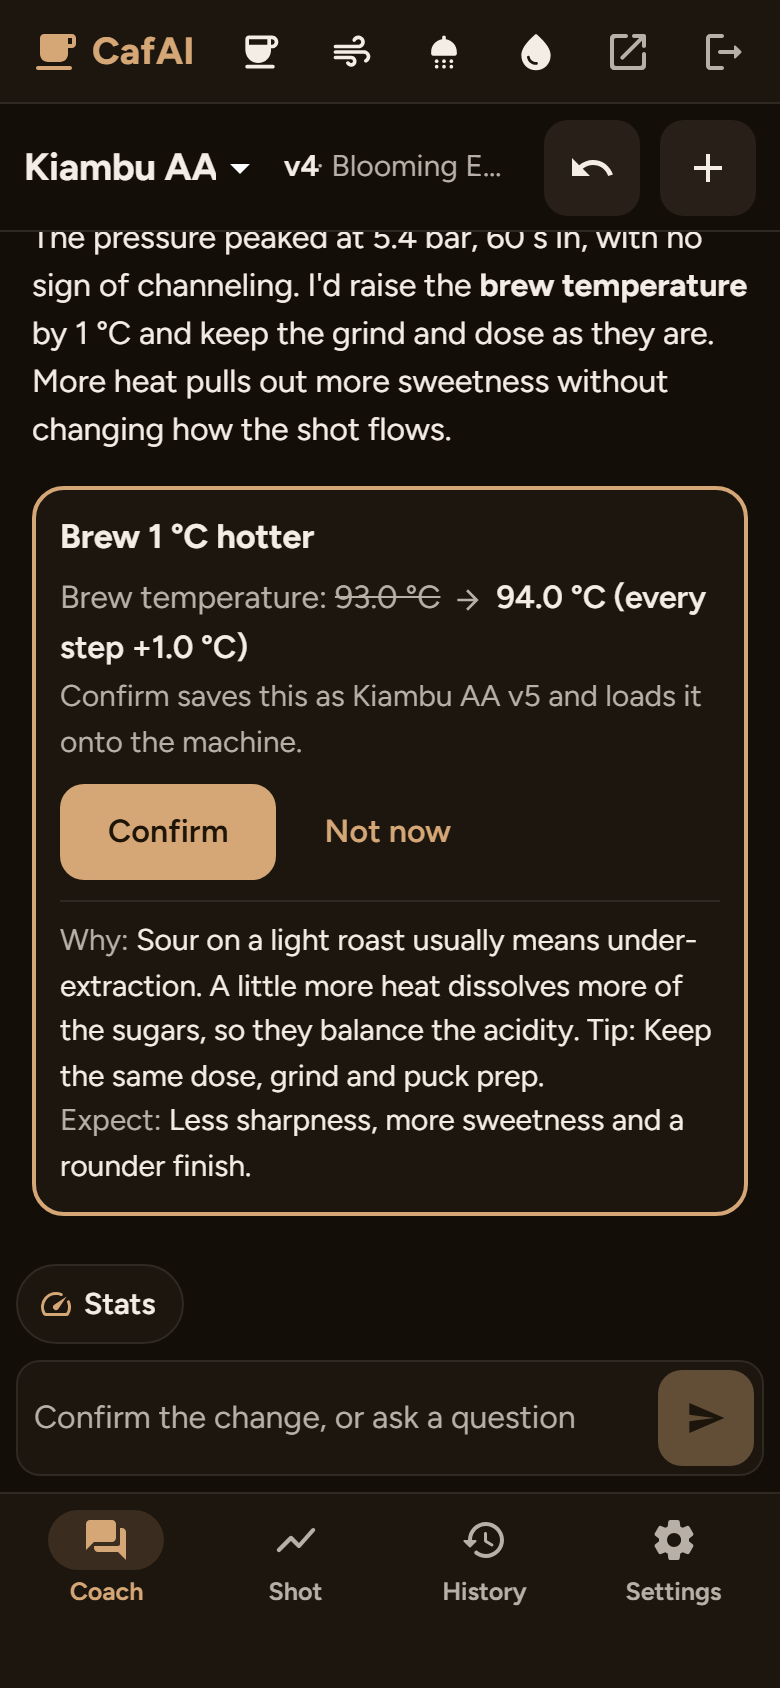
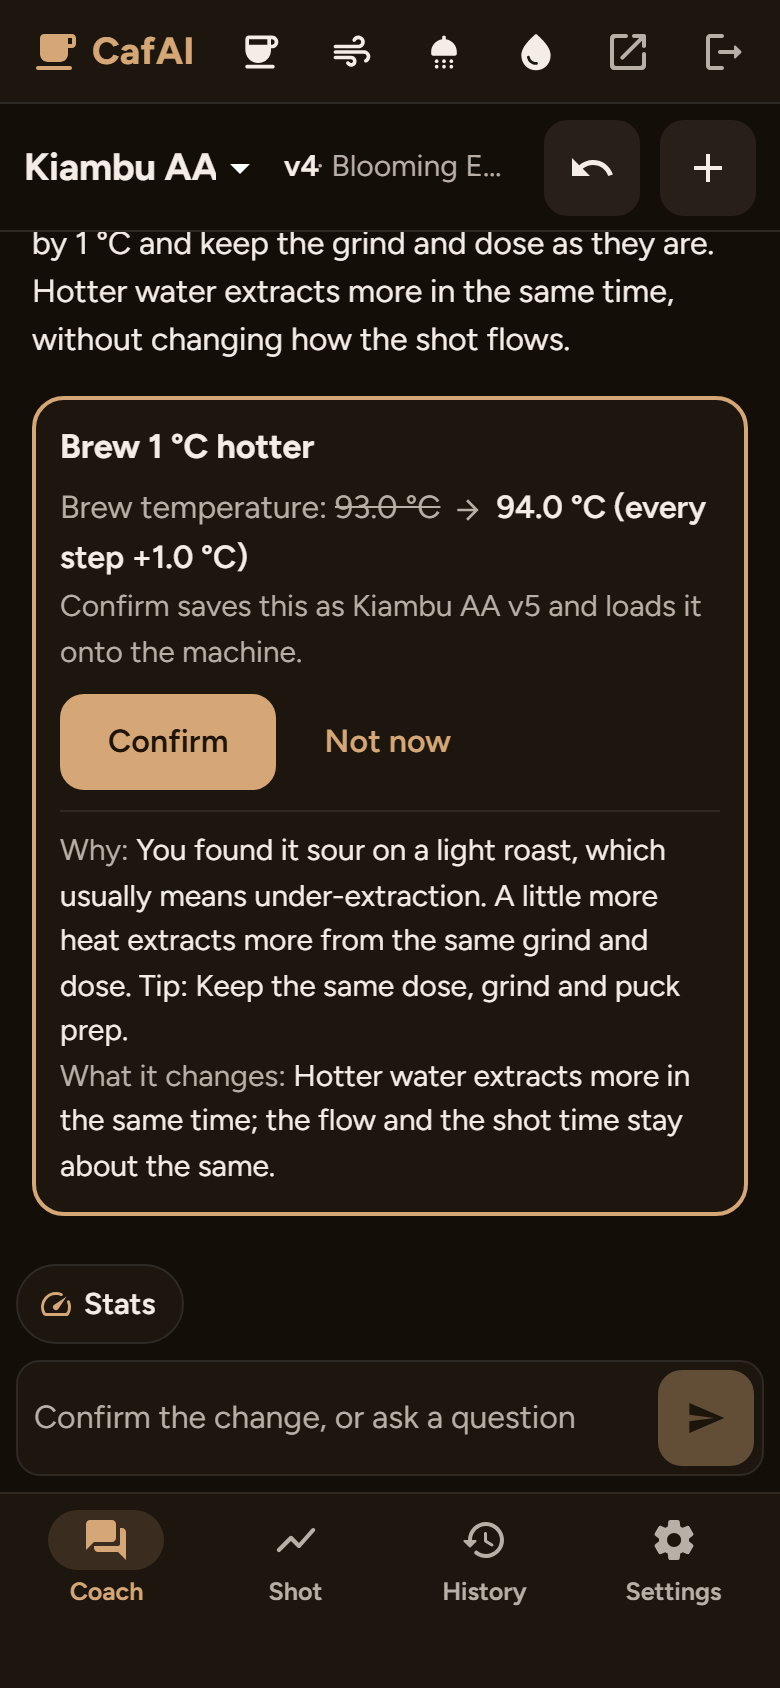
docs: the README's screenshots retaken after D123-D128; MORNING's status after the review's fixes

Changed region(s): [[0.0308, 0.1232, 0.9846, 0.7085], [0.9231, 0.2156, 0.9538, 0.2464]]

diff --git a/MORNING.md b/MORNING.md
@@ -38,15 +38,15 @@ pushed.
 |---|---|
 | Typecheck (`npm run typecheck`) | pass |
 | Lint (`npm run lint`) | pass |
-| Unit tests (`npm test`) | **3014/3014** in 169 files on 2026-10-11 (2026-10-09: 2330 in 144; 2026-10-08: 2275 in 141; 2026-10-06: 2047 in 125; 2026-10-04: 1836 in 115; overnight: 1254 in 91) |
-| Playwright (`npm run e2e`) | **258 passed, 2 skipped** on 2026-10-11, on all five sizes (each phone skips a tablet-only check). Run with 5 workers (`npx playwright test --workers=5`): 8.8 minutes instead of about 25. Six failed in that run and passed alone: five checked a bean button's name the old way (the spec is fixed), one is a timing check that missed under the load (2026-10-09: 188; 2026-10-08: 140; 2026-10-06: 114 on the three tablets) |
+| Unit tests (`npm test`) | **3576 passed, 1 skipped** in 192 files on 2026-10-11, after your list and `main`'s Decaid skill (earlier on 2026-10-11: 3014 in 169; 2026-10-09: 2330 in 144; 2026-10-08: 2275 in 141; 2026-10-06: 2047 in 125; 2026-10-04: 1836 in 115; overnight: 1254 in 91) |
+| Playwright (`npm run e2e`) | **271 passed, 2 skipped** on 2026-10-11 after your list, on all five sizes (each phone skips a tablet-only check), with 5 workers (`npx playwright test --workers=5`) in 7.4 minutes. One more failed in that run, the restore after lost storage on the 962x602 tablet, a timeout while `npm run screenshots` ran beside it; alone it passed on all three tablets. Earlier on 2026-10-11: 258 (2026-10-09: 188; 2026-10-08: 140; 2026-10-06: 114 on the three tablets) |
 | `npm run verify` (all of the above, build and release zip) | every part passes on 2026-10-11, run side by side rather than as the one command (which runs e2e on one worker) |
-| Real Chromium 91 (`npm run build:mock && npm run smoke:chrome91 && npm run smoke:chrome91:loop`) | pass on 2026-10-11: the app loads with no console or page errors, and the whole coach loop runs, now through "Which coffee is it?" (Something else), waiting for the machine to confirm each load; the chat opens with the stats card, Stats brings it back, Espresso in the top bar turns into Stop and the Shot view takes the screen, and the coach comes back with the card |
+| Real Chromium 91 (`npm run build:mock && npm run smoke:chrome91 && npm run smoke:chrome91:loop`) | pass on 2026-10-11, again after your list (the loop now rates the shot Better): the app loads with no console or page errors, and the whole coach loop runs, now through "Which coffee is it?" (Something else), waiting for the machine to confirm each load; the chat opens with the stats card, Stats brings it back, Espresso in the top bar turns into Stop and the Shot view takes the screen, and the coach comes back with the card |
 | Real Decaid (`npm run test:decaid` with writes and a simulated shot) | **36/36** on 2026-10-11 against Decaid 0.8.8+2900 (`aab5f938`, the pin) on your Windows simulator, including the new checks: Connect and a reconnect after a disconnect, Next step during the shot, the time-to-ready channel, DYE2's and Visualizer's data (2026-10-10: 31, then 32) |
 | CafAI served by Decaid (`npm run e2e:real`) | pass on 2026-10-11, the production build from Decaid's port 3000 |
 | Drift watch (`npm run decaid:watch`) | exit 4 on 2026-10-11: every check passes for v0.8.8 and Decaid's `main` (`af4e995`), whose spec changes are additions; files CafAI depends on changed on `main` (camera access for skins, the Visualizer plugin), so on GitHub it would open a `decaid-read` issue (D105) |
 | Live API test (`npm run test:live`) | skipped here (no key on this machine); its dry run against the scripted coach passes |
-| Fresh-eyes verifier | 2026-10-10, Decaid alignment: three reviewers (update safety; engine and storage; UI) found 25 defects, 7 of them important, each verified with a test or Decaid's source; all fixed (`197520d`, brief `docs/briefs/verify-decaid-alignment.md`). 2026-10-08, the UX rework: 2 major, 5 minor and 8 polish; 13 fixed, 1 kept by design, 1 open (below). Chat first: not run yet (its brief is `docs/briefs/verify-chat-first.md`). Earlier rounds: all fixed |
+| Fresh-eyes verifier | 2026-10-11, your list (D123-D128): one reviewer, no critical or high findings; 2 medium (an unknown verdict in a stored chat stopped the coach for that bag; the taste-wording guard missed common promises and read only `expectedEffect`) and 8 low, with nits; all fixed in `8720050` but the screenshot script's fake clock, which only its own pictures meet (they are made deterministic another way). 2026-10-10, Decaid alignment: three reviewers (update safety; engine and storage; UI) found 25 defects, 7 of them important, each verified with a test or Decaid's source; all fixed (`197520d`, brief `docs/briefs/verify-decaid-alignment.md`). 2026-10-08, the UX rework: 2 major, 5 minor and 8 polish; 13 fixed, 1 kept by design, 1 open (below). Chat first: not run yet (its brief is `docs/briefs/verify-chat-first.md`). Earlier rounds: all fixed |
 
 ## New: your list after the alignment (2026-10-11)
 
@@ -89,9 +89,8 @@ review's 25 fixes and this round, is not pushed.
   what CafAI took from others), NOTICE crediting decaid-mcp and Decaid's
   ports, CONTRIBUTING, SECURITY (GitHub's private reporting, no email
   address), a changelog, issue forms, and `npm run screenshots` to retake
-  the README's pictures. The pictures were taken before this round's
-  merges, so they still show the old tint names and "Expect"; run it again
-  after the merges.
+  the README's pictures, retaken after this round's merges (the new tint
+  names, "What it changes:").
 
 **Look at first:** `npm run demo`: the shot cards rated in words, and on
 the open question **Taste words** and **Need help?** above the composer;
